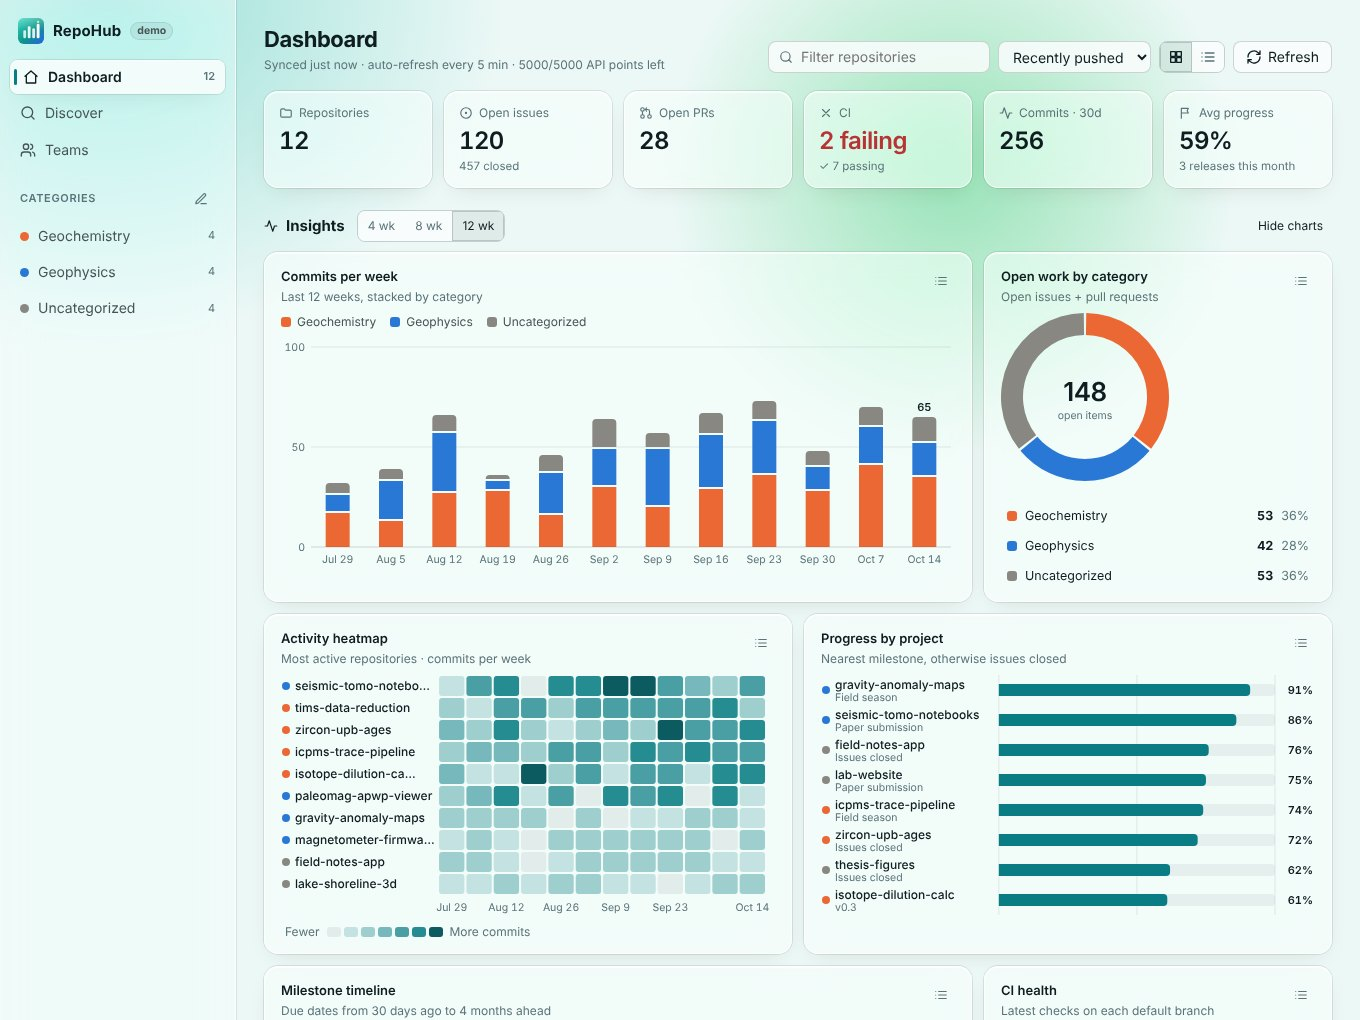
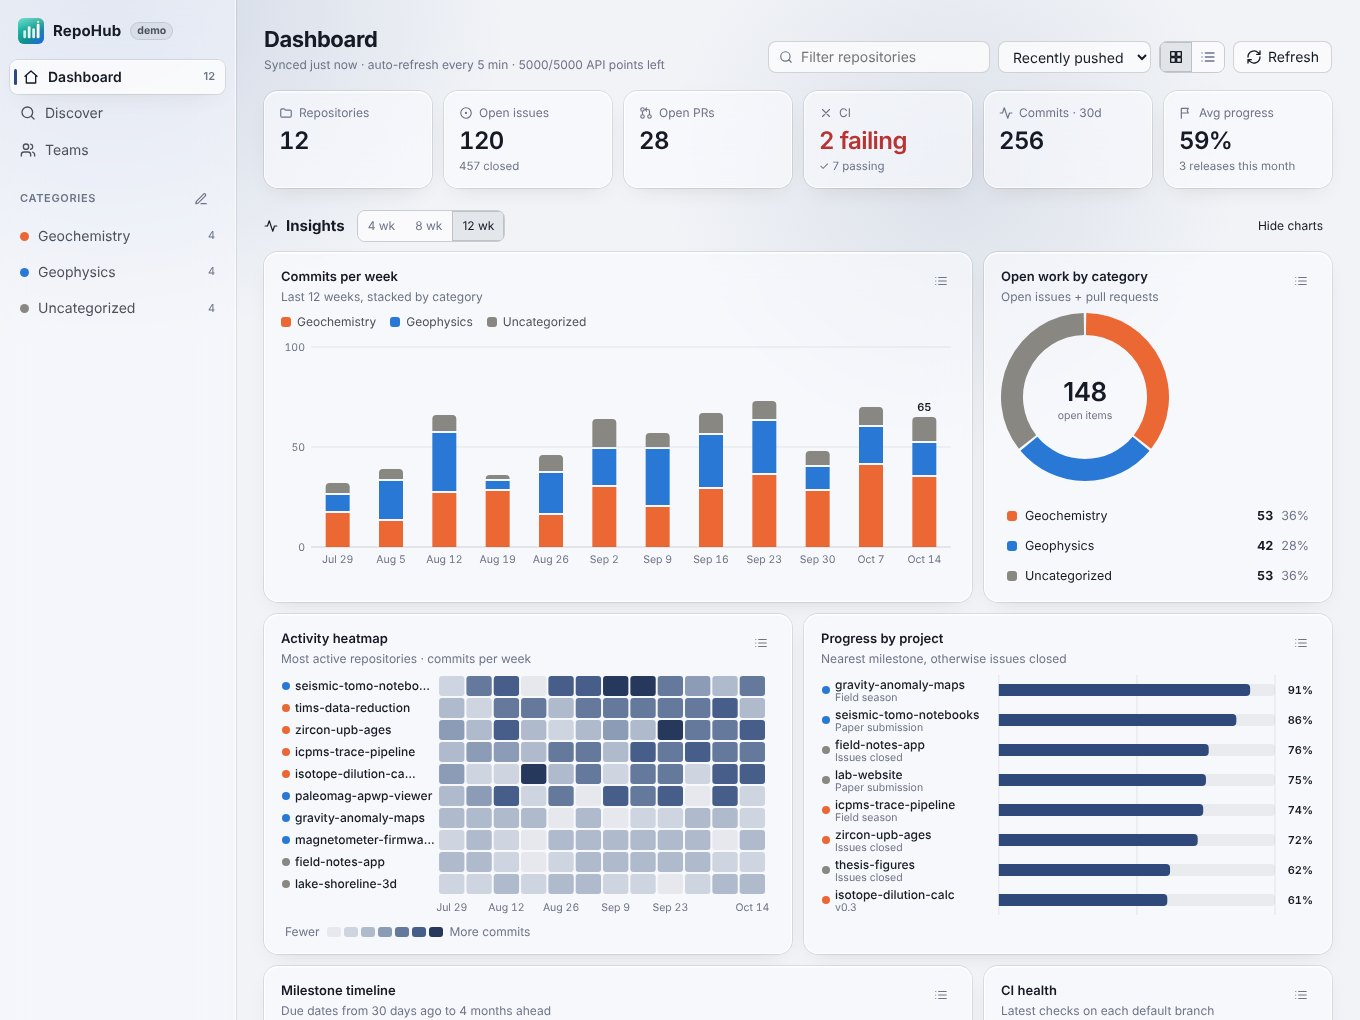
RepoHub: Porcelain & Sapphire

diff --git a/repohub/index.html b/repohub/index.html
@@ -11,19 +11,19 @@
 <meta property="og:image" content="https://duserzym.github.io/repohub/img/dashboard.jpg">
 <style>
   :root {
-    --bg: #ecf8f6; --ink: #0f1d20; --ink-2: #3a5257; --muted: #5a7378;
-    --accent: #0a7d84; --accent-2: #14b8a6; --accent-fg: #ffffff; --grad-a: #0a7d84; --grad-b: #2563eb;
-    --glass: rgb(255 255 255 / 0.62); --edge: rgb(255 255 255 / 0.8); --line: rgb(15 29 32 / 0.1);
-    --blob-1: rgb(20 184 166 / 0.34); --blob-2: rgb(59 130 246 / 0.3); --blob-3: rgb(34 197 94 / 0.26);
+    --bg: #f1f3f7; --ink: #151a24; --ink-2: #3d4556; --muted: #6c7486;
+    --accent: #2f4a7a; --accent-2: #4a679a; --accent-fg: #ffffff; --grad-a: #2f4a7a; --grad-b: #4a7bd0;
+    --glass: rgb(255 255 255 / 0.62); --edge: rgb(255 255 255 / 0.8); --line: rgb(21 26 36 / 0.1);
+    --blob-1: rgb(147 174 222 / 0.38); --blob-2: rgb(74 103 154 / 0.22); --blob-3: rgb(183 169 142 / 0.22);
     --good: #2e9e4f; --warn: #e2a72a; --bad: #d64545; --none: #a39c90;
     color-scheme: light;
   }
   @media (prefers-color-scheme: dark) {
     :root {
-      --bg: #081419; --ink: #e4f3f2; --ink-2: #b9d3d3; --muted: #7f9a9d;
-      --accent: #2ed3bf; --accent-2: #7ce8db; --accent-fg: #062024; --grad-a: #2ed3bf; --grad-b: #60a5fa;
-      --glass: rgb(20 38 44 / 0.55); --edge: rgb(255 255 255 / 0.08); --line: rgb(255 255 255 / 0.09);
-      --blob-1: rgb(46 211 191 / 0.2); --blob-2: rgb(37 99 235 / 0.3); --blob-3: rgb(16 185 129 / 0.18);
+      --bg: #0c111d; --ink: #e6eaf2; --ink-2: #c0c8d8; --muted: #8590a6;
+      --accent: #93aede; --accent-2: #b4c7ea; --accent-fg: #0c111d; --grad-a: #93aede; --grad-b: #c7d6f2;
+      --glass: rgb(26 32 48 / 0.55); --edge: rgb(255 255 255 / 0.08); --line: rgb(255 255 255 / 0.09);
+      --blob-1: rgb(61 78 122 / 0.4); --blob-2: rgb(147 174 222 / 0.14); --blob-3: rgb(90 80 120 / 0.14);
       color-scheme: dark;
     }
   }
@@ -37,7 +37,7 @@
   a { color: var(--accent); text-decoration: none; }
   a:hover { text-decoration: underline; }
   .wrap { max-width: 1120px; margin: 0 auto; padding: 0 20px; }
-  .glass { background: var(--glass); border: 1px solid var(--edge); box-shadow: 0 1px 0 rgb(255 255 255 / 0.3) inset, 0 14px 40px -22px rgb(10 40 45 / 0.4), 0 0 0 1px var(--line);
+  .glass { background: var(--glass); border: 1px solid var(--edge); box-shadow: 0 1px 0 rgb(255 255 255 / 0.3) inset, 0 14px 40px -22px rgb(15 25 50 / 0.4), 0 0 0 1px var(--line);
     -webkit-backdrop-filter: blur(18px) saturate(150%); backdrop-filter: blur(18px) saturate(150%); border-radius: 18px; }
 
   nav.top { position: sticky; top: 0; z-index: 10; padding: 12px 0; }
@@ -139,7 +139,7 @@
       <div class="feature glass"><svg width="22" height="22" viewBox="0 0 24 24" fill="none" stroke="currentColor" stroke-width="2" stroke-linecap="round"><path d="M3 7a2 2 0 0 1 2-2h4l2 2h8a2 2 0 0 1 2 2v8a2 2 0 0 1-2 2H5a2 2 0 0 1-2-2z"/></svg><h3>Your own categories</h3><p>Starts with Geochemistry and Geophysics. Add, rename and recolor categories as you like, and keyword rules sort repos into them automatically.</p></div>
       <div class="feature glass"><svg width="22" height="22" viewBox="0 0 24 24" fill="none" stroke="currentColor" stroke-width="2" stroke-linecap="round"><circle cx="11" cy="11" r="8"/><path d="m21 21-4.3-4.3"/></svg><h3>Discover ready-to-use projects</h3><p>Search GitHub by topic, filtering for maintained, licensed and well-starred projects. Track them next to your own repos.</p></div>
       <div class="feature glass"><svg width="22" height="22" viewBox="0 0 24 24" fill="none" stroke="currentColor" stroke-width="2" stroke-linecap="round"><rect x="3" y="3" width="18" height="18" rx="5"/><circle cx="9" cy="10" r="2"/><path d="m21 16-5-5-8 8"/></svg><h3>Repo icons, automatically</h3><p>RepoHub reads each project's own logo or icon file. Private repos work too, and you can override any icon.</p></div>
-      <div class="feature glass"><svg width="22" height="22" viewBox="0 0 24 24" fill="none" stroke="currentColor" stroke-width="2" stroke-linecap="round"><circle cx="12" cy="12" r="9"/><path d="M12 3a9 9 0 0 0 0 18z" fill="currentColor"/></svg><h3>Eleven themes</h3><p>Lagoon, Ivory &amp; Brass, Glacier &amp; Slate and eight more, each with light and dark modes, on frosted glass.</p></div>
+      <div class="feature glass"><svg width="22" height="22" viewBox="0 0 24 24" fill="none" stroke="currentColor" stroke-width="2" stroke-linecap="round"><circle cx="12" cy="12" r="9"/><path d="M12 3a9 9 0 0 0 0 18z" fill="currentColor"/></svg><h3>Eleven themes</h3><p>Porcelain &amp; Sapphire, Lagoon, Glacier &amp; Slate and eight more, each with light and dark modes, on frosted glass.</p></div>
     </div>
   </section>
 
